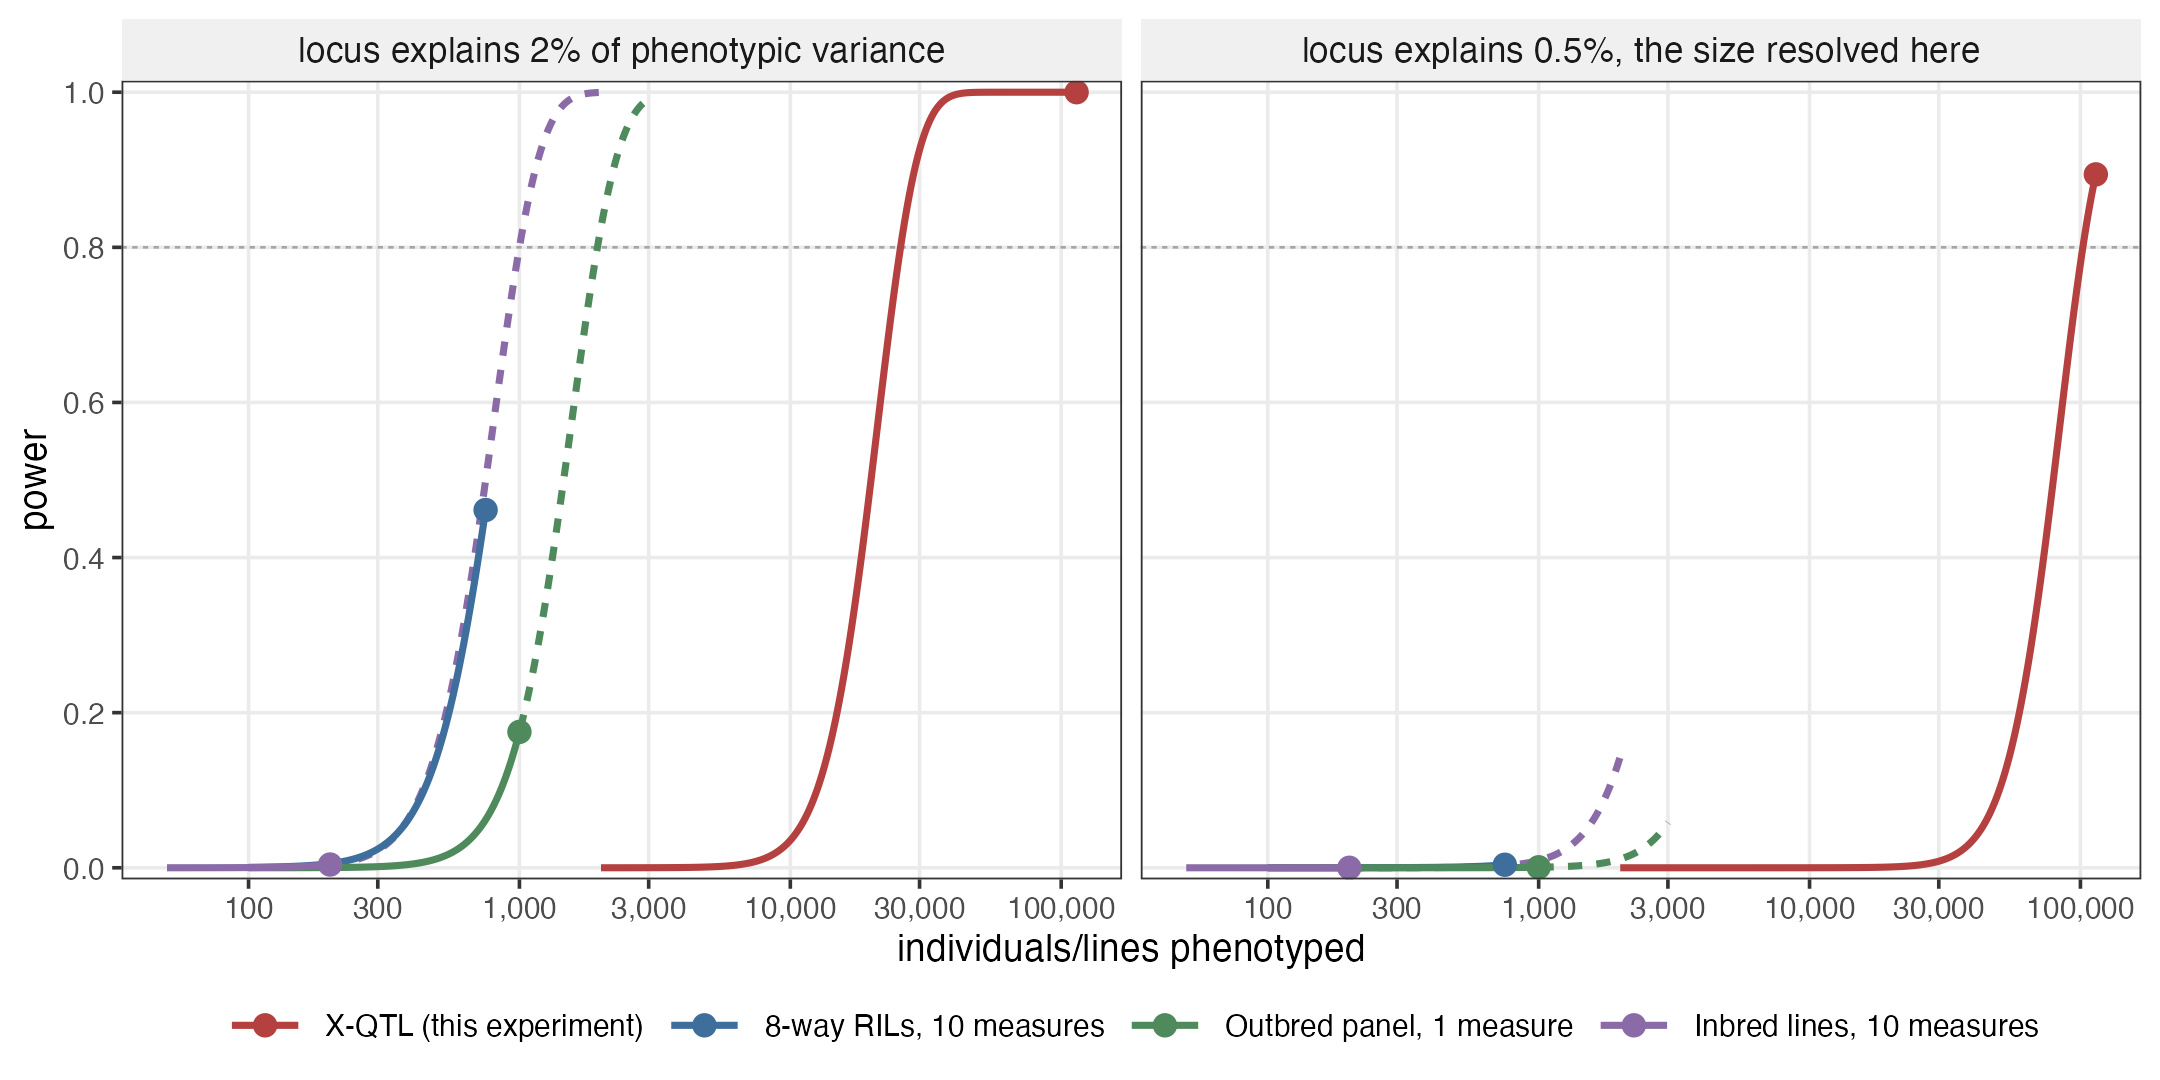
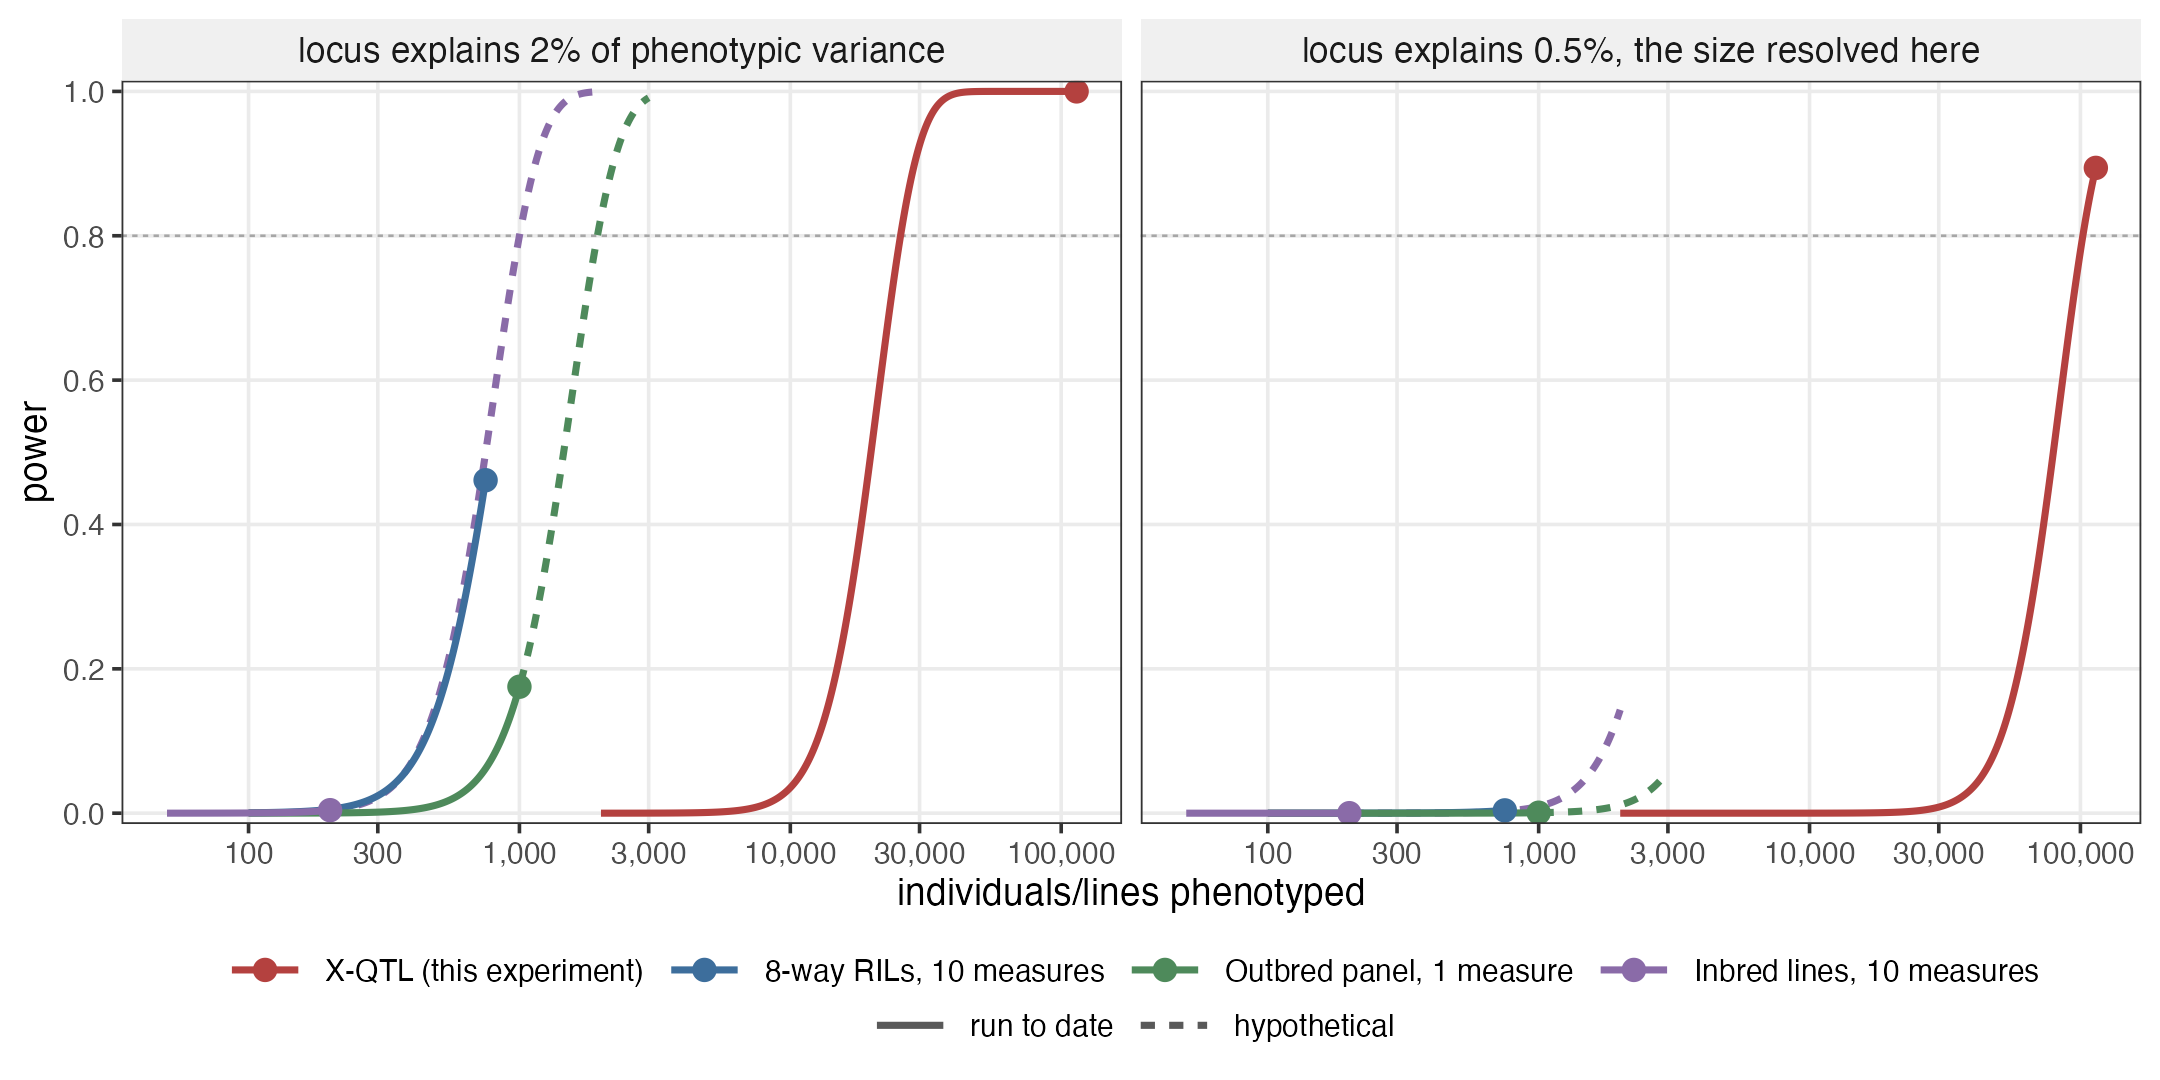
temp_aging: label hypothetical extents; note the calculations are idealised
The dotted segments now carry their own legend entry, "run to date" vs
"hypothetical", so the figure states it rather than relying on a caption.
Nobody has run 2,000 inbred lines or genotyped 3,000 outbred flies.

Added the general caveat Tony raised, in a form that needs no claim about
any particular study: A, B and C are given their idealised power -- one
homogeneous panel, one protocol, no batch structure -- whereas the X-QTL
non-centrality comes from the fitted relation on the observed scan and so
already carries replicate structure, smoothing and reconstruction error.
The comparison favours the conventional designs and the gap is conservative.

diff --git a/temp_aging/DESIGN_POWER.md b/temp_aging/DESIGN_POWER.md
@@ -84,6 +84,9 @@ experiments are run at; dotted is a plausible extension:
 
 - **inbred lines** 200 → 2,000, the rumoured extension of the panel
 - **outbred panel** 1,000 → 3,000, a guess, nothing supports a specific ceiling
+
+Both are labelled *hypothetical* in the figure legend. Neither has been run, and
+the figure should not be read as predicting that either will be.
 - **8-way RILs** no extension, the panel is not expected to exceed 750
 - **X-QTL** no extension, 114,000 is this experiment per treatment
 
@@ -92,6 +95,23 @@ respectably and X-QTL needs 30,000 flies to match 750 RILs. The right panel is
 the argument: at 0.5% nothing else lifts off the floor even along its dotted
 extension (inbred lines reach ~0.15 at 2,000, the outbred panel ~0.05 at 3,000)
 while X-QTL is at 0.89.
+
+## These are idealised power calculations for the conventional designs
+
+Each of A, B and C assumes a single homogeneous panel measured under one
+protocol: no batch structure, no heterogeneity between sub-experiments, every
+individual contributing full information to one analysis. Large phenotyping
+efforts are usually assembled over several experiments, and a panel of *n*
+assembled that way delivers less power than a panel of *n* run at once.
+
+The X-QTL curve is not idealised in the same way. Its non-centrality comes from
+the fitted relation `h2 = 0.00774 (T - 7)`, estimated from the observed scan, so
+replicate structure, smoothing and haplotype reconstruction error are already
+inside it.
+
+**The comparison therefore favours the conventional designs**, and the gap in
+the figure is if anything conservative. This is a general property of textbook
+power calculations and needs no claim about any particular published study.
 
 ## Simulation check
 
